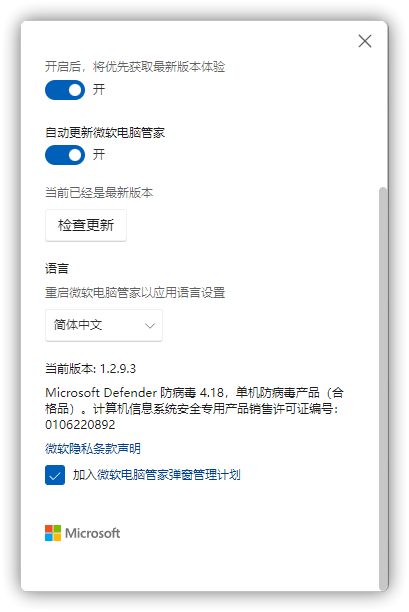
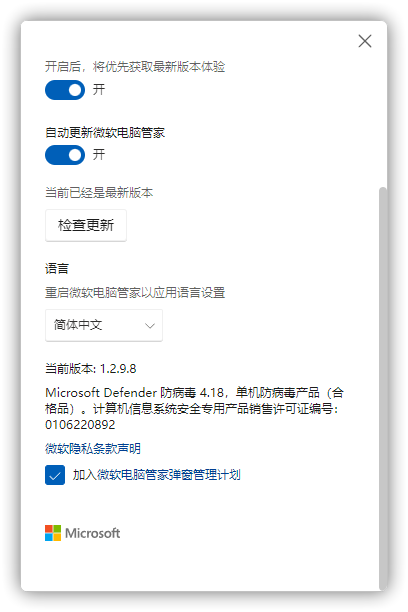
fix: 修正了不正确的图片文件名与版本号

diff --git a/docs/version-check.md b/docs/version-check.md
@@ -3,9 +3,9 @@
 ## 公开最新版本号及查询方式
 最新版本号以官网为准，从 1.2.x 以后，版本号将统一简写，默认省略开头的 1.。
 
-2023 年 04 月 10 日更新，版本号为 1.2.9.3（简称 2.9.3）。
+2023 年 04 月 25 日更新，版本号为 1.2.9.8（简称 2.9.8）。
 
-上一个版本为：1.2.9.2（简称 2.9.2），2023 年 03 月 24 日更新。
+上一个版本为：1.2.9.7（简称 2.9.7），2023 年 04 月 NaN 日更新。（NaN 即为未知日期）
 
 <font size=1>*内部版本号将不再提供。</font>
 
